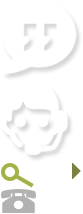
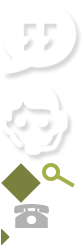
Finalizacao

diff --git a/imagem/site/icon.css b/imagem/site/icon.css
@@ -1,10 +1,11 @@
 .icon{ background:url("icon.png") top left no-repeat; }
 .icon-depoimento-lg{ width:81px; height:80px; background-position:-1px -1px; }
 .icon-atendimento-lg{ width:73px; height:80px; background-position:-1px -82px; }
-.icon-mag{ width:33px; height:25px; background-position:-1px -163px; }
-.icon-facebook{ width:12px; height:24px; background-position:-35px -163px; }
-.icon-phone{ width:35px; height:24px; background-position:-1px -189px; }
-.icon-instagram{ width:23px; height:22px; background-position:-48px -163px; }
-.icon-arrow-right{ width:9px; height:16px; background-position:-72px -163px; }
-.icon-plus-white{ width:16px; height:16px; background-position:-37px -189px; }
+.icon-losango{ width:40px; height:40px; background-position:-1px -163px; }
+.icon-mag{ width:33px; height:25px; background-position:-42px -163px; }
+.icon-facebook{ width:12px; height:24px; background-position:-1px -204px; }
+.icon-phone{ width:35px; height:24px; background-position:-14px -204px; }
+.icon-instagram{ width:23px; height:22px; background-position:-50px -204px; }
+.icon-arrow-right{ width:9px; height:16px; background-position:-1px -229px; }
+.icon-plus-white{ width:16px; height:16px; background-position:-11px -229px; }
 
